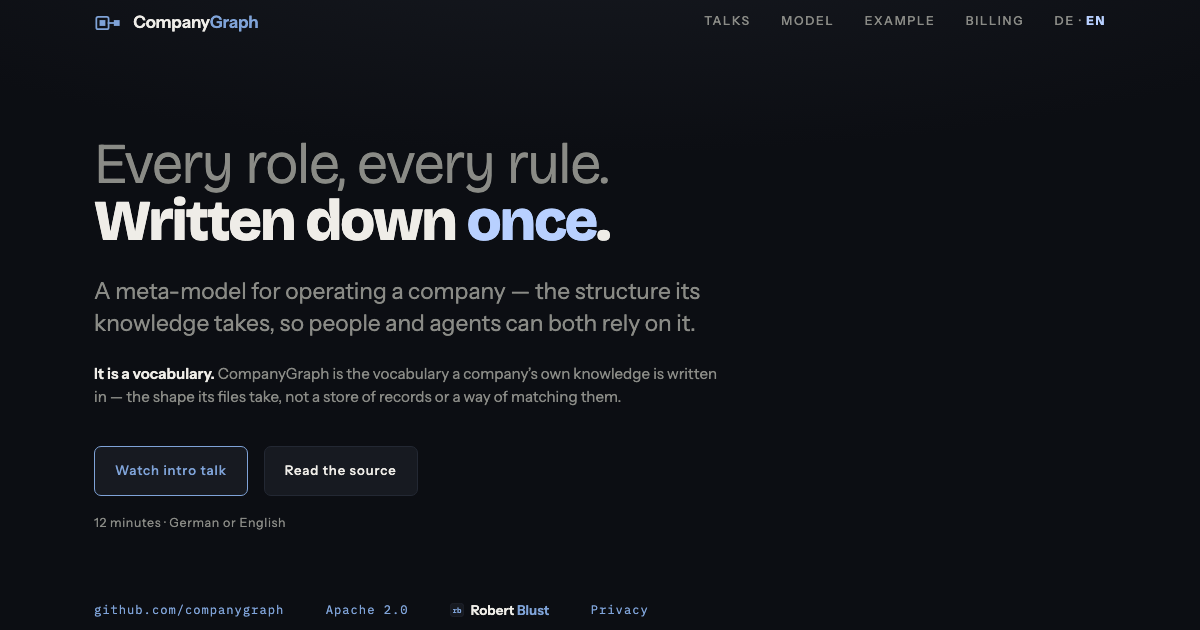
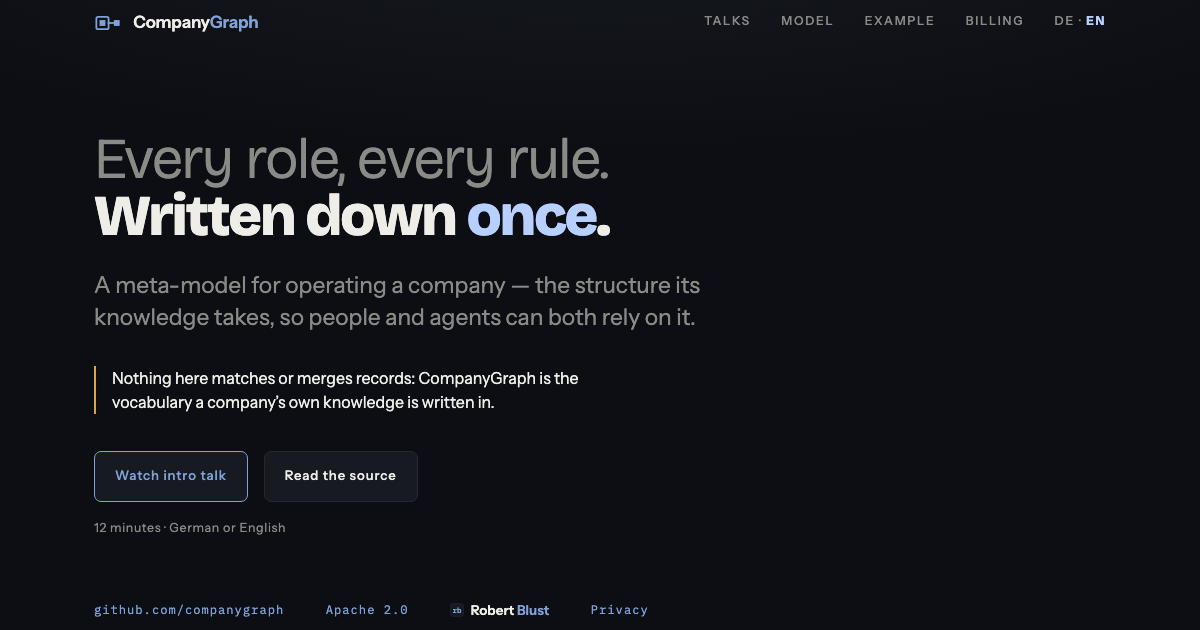
Give the clarification the site's own idiom
It was a paragraph with a bold lead — a shape this site does not use. The
model page already had the right one: a note, flagged with a rule in
--c-flag, in the slot under the tagline, saying the one thing a visitor
assumes that is not true. That page reverses "someone wrote this"; this one
reverses what "graph" suggests.

Same rule, same colour, same slot, so a reader who has seen one recognises
the other. The figure's palette comment said the page had no reversal — it
does now, and not in the figure.

diff --git a/index.html b/index.html
@@ -197,9 +197,11 @@
   .hero h1 .r70{display:block; font-weight:300; color:var(--dim)}
   .hero h1 .rcl{display:block; font-weight:800}
   .hero h1 em{font-style:normal; color:var(--c-firm)}
-  .clarify{margin-top:1.5rem; font-size:clamp(.95rem,1.2vw,1.05rem); color:var(--dim);
-           max-width:62ch; line-height:1.5}
-  .clarify b{color:var(--ink); font-weight:600}
+  /* The page's one reversal, flagged the way the model page flags its own: a visitor who
+     reads "graph" assumes records being matched, and this line says the opposite. Same rule,
+     same colour, same slot under the tagline — a reader who has seen one recognises the other. */
+  .note{margin-top:2rem; max-width:52ch; padding-left:1rem;
+        border-left:2px solid var(--c-flag); color:var(--ink); font-size:1rem}
   .tagline{margin-top:1.6rem; font-size:clamp(1.1rem,1.9vw,1.5rem); color:var(--dim);
            max-width:44ch; line-height:1.4}
   .cta{margin-top:2.3rem; display:flex; flex-wrap:wrap; gap:1rem}
@@ -225,8 +227,8 @@
 
      Both trees are --c-weak deliberately: they are candidates, considered and not
      accepted, because the answer is the shape and not either of them. --c-firm is the
-     shape. Nothing in the figure is interactive, so nothing in it is --c-mid, and there
-     is no reversal here, so there is no --c-flag. */
+     shape. Nothing in the figure is interactive, so nothing in it is --c-mid, and the
+     page's one reversal is the note above, so there is no --c-flag in the figure either. */
   /* `display:contents` puts the drawing and its caption into `main .shell`'s flex row as
      two independent items, each taking a full-width row of its own beneath the hero — the
      drawing first, the caption under it. The figcaption stays inside <figure> in the
@@ -324,7 +326,7 @@
   <section class="hero">
     <h1 data-de="<span class='r70'>Jede Rolle, jede Regel.</span><span class='rcl'>Einmal <em>aufgeschrieben</em>.</span>"><span class="r70">Every role, every rule.</span><span class="rcl">Written down <em>once</em>.</span></h1>
     <p class="tagline" data-de="Ein Meta-Modell für den Betrieb eines Unternehmens — die Struktur, die sein Wissen annimmt, damit Menschen und Agenten sich darauf verlassen können.">A meta-model for operating a company — the structure its knowledge takes, so people and agents can both rely on it.</p>
-    <p class="clarify" data-de="<b>Es ist ein Vokabular.</b> CompanyGraph ist das Vokabular, in dem das Wissen eines Unternehmens geschrieben steht — die Form, die seine Dateien annehmen, kein Speicher für Datensätze und kein Verfahren, sie abzugleichen."><b>It is a vocabulary.</b> CompanyGraph is the vocabulary a company’s own knowledge is written in — the shape its files take, not a store of records or a way of matching them.</p>
+    <p class="note" data-de="Nichts hier gleicht Datensätze ab oder führt sie zusammen: CompanyGraph ist das Vokabular, in dem das Wissen eines Unternehmens geschrieben steht.">Nothing here matches or merges records: CompanyGraph is the vocabulary a company’s own knowledge is written in.</p>
     <div class="cta">
       <a class="btn primary" href="talks/intro/"
          data-de="Einführungsvortrag ansehen">Watch intro talk</a>
